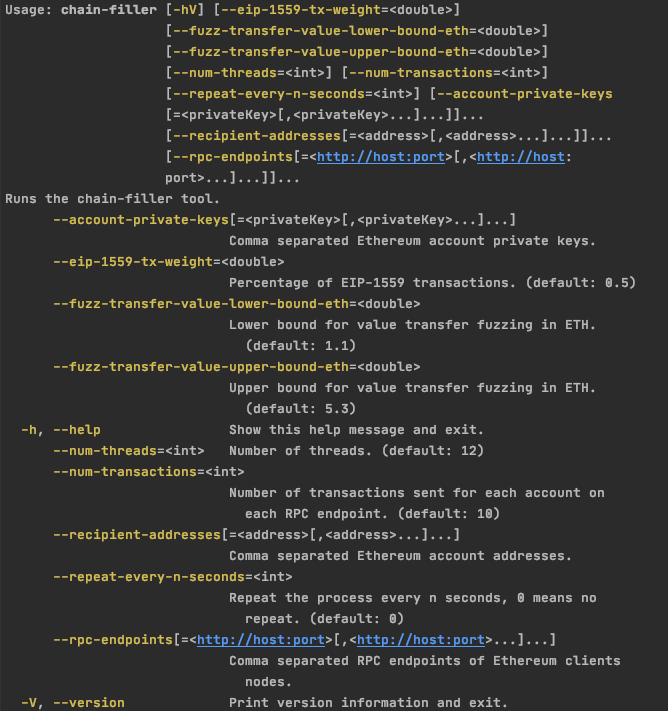
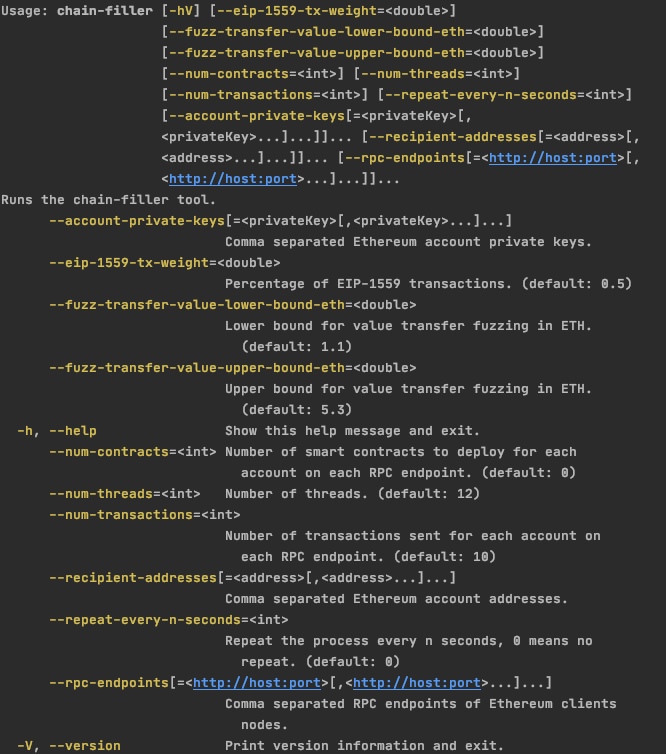
Add smart contract deployment feature

Changed region(s): [[0.0, 0.0, 0.961, 1.0], [0.03, 0.9592, 0.1802, 1.0], [0.03, 0.557, 0.0601, 0.6188]]

diff --git a/src/main/java/tech/pegasys/net/core/ChainFillerTask.java b/src/main/java/tech/pegasys/net/core/ChainFillerTask.java
@@ -23,6 +23,7 @@ public class ChainFillerTask implements Runnable {
   private final String accountPrivateKey;
   private final int numTransactionsLegacy;
   private final int numTransactionsEIP1559;
+  private final int numSmartContracts;
   private final Web3j web3;
   private AtomicLong nonce;
   private BigInteger initialGasPrice;
@@ -32,12 +33,14 @@ public class ChainFillerTask implements Runnable {
       final String rpcEndpoint,
       final String accountPrivateKey,
       final int numTransactionsLegacy,
-      final int numTransactionsEIP1559) {
+      final int numTransactionsEIP1559,
+      final int numSmartContracts) {
     this.chainFiller = chainFiller;
     this.rpcEndpoint = rpcEndpoint;
     this.accountPrivateKey = accountPrivateKey;
     this.numTransactionsLegacy = numTransactionsLegacy;
     this.numTransactionsEIP1559 = numTransactionsEIP1559;
+    this.numSmartContracts = numSmartContracts;
     this.taskId =
         String.format("[%s - %s]", rpcEndpoint, EthereumUtils.censorPrivateKey(accountPrivateKey));
     this.credentials =
@@ -64,6 +67,7 @@ public class ChainFillerTask implements Runnable {
     System.out.printf("%s task started\n", taskId);
     IntStream.range(0, numTransactionsLegacy).forEach(__ -> sendLegacyTransaction());
     IntStream.range(0, numTransactionsEIP1559).forEach(__ -> sendEIP1559Transaction());
+    IntStream.range(0, numSmartContracts).forEach(__ -> deploySmartContract());
     System.out.printf("%s task completed\n", taskId);
   }
 
@@ -94,6 +98,25 @@ public class ChainFillerTask implements Runnable {
     } catch (final Exception e) {
       System.err.printf("%s error sending eip1559 transaction: %s\n", taskId, e.getMessage());
       chainFiller.reporter().incEIP1559TransactionsError();
+    }
+  }
+
+  private void deploySmartContract() {
+    try {
+      final LegacyTransaction contractDeploymentTransaction =
+          chainFiller
+              .legacyTransactionCreator()
+              .create(
+                  BigInteger.valueOf(nonce.getAndIncrement()),
+                  initialGasPrice,
+                  chainFiller.contractRepository().random().code());
+      final byte[] signedMessage =
+          TransactionSigner.sign(contractDeploymentTransaction, credentials);
+      web3.ethSendRawTransaction(Numeric.toHexString(signedMessage)).send();
+      chainFiller.reporter().incTotalContractsDeployed();
+    } catch (final Exception e) {
+      System.err.printf("%s error deploying contract: %s\n", taskId, e.getMessage());
+      chainFiller.reporter().incTotalContractsDeploymentsError();
     }
   }
 }

diff --git a/src/main/java/tech/pegasys/net/core/ChainFillerService.java b/src/main/java/tech/pegasys/net/core/ChainFillerService.java
@@ -2,6 +2,7 @@ package tech.pegasys.net.core;
 
 import tech.pegasys.net.api.AccountRepository;
 import tech.pegasys.net.api.ChainFiller;
+import tech.pegasys.net.api.ContractRepository;
 import tech.pegasys.net.api.CredentialsRepository;
 import tech.pegasys.net.api.EIP1559TransactionCreator;
 import tech.pegasys.net.api.LegacyTransactionCreator;
@@ -18,6 +19,7 @@ public class ChainFillerService implements ChainFiller {
   private final ChainFillerConfiguration configuration;
   private final CredentialsRepository credentialsRepository;
   private final AccountRepository accountRepository;
+  private final ContractRepository contractRepository;
   private final LegacyTransactionCreator legacyTransactionCreator;
   private final EIP1559TransactionCreator eip1559TransactionCreator;
   private final Reporter reporter;
@@ -27,12 +29,14 @@ public class ChainFillerService implements ChainFiller {
       final ChainFillerConfiguration configuration,
       final CredentialsRepository credentialsRepository,
       final AccountRepository accountRepository,
+      final ContractRepository contractRepository,
       final LegacyTransactionCreator legacyTransactionCreator,
       final EIP1559TransactionCreator eip1559TransactionCreator,
       final Reporter reporter) {
     this.configuration = configuration;
     this.credentialsRepository = credentialsRepository;
     this.accountRepository = accountRepository;
+    this.contractRepository = contractRepository;
     this.legacyTransactionCreator = legacyTransactionCreator;
     this.eip1559TransactionCreator = eip1559TransactionCreator;
     this.reporter = reporter;
@@ -81,7 +85,8 @@ public class ChainFillerService implements ChainFiller {
                                       rpcEndpoint,
                                       accountPrivateKey,
                                       legacyTxs,
-                                      eip1559Txs))));
+                                      eip1559Txs,
+                                      configuration.numSmartContracts()))));
       executorService.shutdown();
       executorService.awaitTermination(1, TimeUnit.DAYS);
     } catch (final Exception e) {
@@ -97,6 +102,11 @@ public class ChainFillerService implements ChainFiller {
   @Override
   public CredentialsRepository credentialsRepository() {
     return credentialsRepository;
+  }
+
+  @Override
+  public ContractRepository contractRepository() {
+    return contractRepository;
   }
 
   @Override

diff --git a/src/main/java/tech/pegasys/net/core/report/ReporterService.java b/src/main/java/tech/pegasys/net/core/report/ReporterService.java
@@ -12,6 +12,8 @@ public class ReporterService implements Reporter {
   private final AtomicLong totalLegacyTransactionsError;
   private final AtomicLong totalEIP1559TransactionsSubmitted;
   private final AtomicLong totalEIP1559TransactionsError;
+  private final AtomicLong totalContractsDeployed;
+  private final AtomicLong totalContractsDeploymentsError;
 
   public ReporterService() {
     this.totalTransactionsSubmitted = new AtomicLong(0);
@@ -20,6 +22,8 @@ public class ReporterService implements Reporter {
     this.totalLegacyTransactionsError = new AtomicLong(0);
     this.totalEIP1559TransactionsError = new AtomicLong(0);
     this.totalTransactionsError = new AtomicLong(0);
+    this.totalContractsDeployed = new AtomicLong(0);
+    this.totalContractsDeploymentsError = new AtomicLong(0);
   }
 
   @Override
@@ -87,6 +91,26 @@ public class ReporterService implements Reporter {
   }
 
   @Override
+  public long totalContractsDeployed() {
+    return totalContractsDeployed.get();
+  }
+
+  @Override
+  public long totalContractsDeploymentsError() {
+    return totalContractsDeploymentsError.get();
+  }
+
+  @Override
+  public void incTotalContractsDeployed() {
+    totalContractsDeployed.incrementAndGet();
+  }
+
+  @Override
+  public void incTotalContractsDeploymentsError() {
+    totalContractsDeploymentsError.incrementAndGet();
+  }
+
+  @Override
   public String report() {
     return new JSONObject()
         .put("totalTransactionsSuccess", totalTransactionsSubmitted())
@@ -95,6 +119,8 @@ public class ReporterService implements Reporter {
         .put("legacyTransactionsError", totalLegacyTransactionsError())
         .put("eip1559TransactionsSuccess", totalEIP1559TransactionsSubmitted())
         .put("eip1559TransactionsError", totalEIP1559TransactionsError())
+        .put("contractDeploymentsSuccess", totalContractsDeployed())
+        .put("contractDeploymentsError", totalContractsDeploymentsError())
         .toString();
   }
 }

diff --git a/src/main/java/tech/pegasys/net/api/TransactionSigner.java b/src/main/java/tech/pegasys/net/api/TransactionSigner.java
@@ -11,17 +11,29 @@ import java.math.BigInteger;
 
 public class TransactionSigner {
   private static final BigInteger DEFAULT_GAS_LIMIT = BigInteger.valueOf(30000);
+  private static final BigInteger DEFAULT_CONTRACT_GAS_LIMIT = BigInteger.valueOf(8000000);
 
   public static byte[] sign(
       final LegacyTransaction legacyTransaction, final Credentials credentials) {
-    return sign(
-        RawTransaction.createEtherTransaction(
-            legacyTransaction.nonce(),
-            legacyTransaction.gasPrice(),
-            DEFAULT_GAS_LIMIT,
-            legacyTransaction.recipientAddress(),
-            Convert.toWei(legacyTransaction.value(), Convert.Unit.ETHER).toBigInteger()),
-        credentials);
+    final RawTransaction rawTransaction;
+    if (legacyTransaction.bytecode().isPresent()) {
+      rawTransaction =
+          RawTransaction.createContractTransaction(
+              legacyTransaction.nonce(),
+              legacyTransaction.gasPrice(),
+              DEFAULT_CONTRACT_GAS_LIMIT,
+              Convert.toWei(legacyTransaction.value(), Convert.Unit.ETHER).toBigInteger(),
+              legacyTransaction.bytecode().get());
+    } else {
+      rawTransaction =
+          RawTransaction.createEtherTransaction(
+              legacyTransaction.nonce(),
+              legacyTransaction.gasPrice(),
+              DEFAULT_GAS_LIMIT,
+              legacyTransaction.recipientAddress(),
+              Convert.toWei(legacyTransaction.value(), Convert.Unit.ETHER).toBigInteger());
+    }
+    return sign(rawTransaction, credentials);
   }
 
   public static byte[] sign(

diff --git a/src/main/java/tech/pegasys/net/core/dagger/ChainFillerModule.java b/src/main/java/tech/pegasys/net/core/dagger/ChainFillerModule.java
@@ -3,6 +3,7 @@ package tech.pegasys.net.core.dagger;
 import dagger.Module;
 import dagger.Provides;
 import tech.pegasys.net.api.AccountRepository;
+import tech.pegasys.net.api.ContractRepository;
 import tech.pegasys.net.api.CredentialsRepository;
 import tech.pegasys.net.api.EIP1559TransactionCreator;
 import tech.pegasys.net.api.LegacyTransactionCreator;
@@ -11,6 +12,7 @@ import tech.pegasys.net.api.TransactionFuzzer;
 import tech.pegasys.net.cli.Options;
 import tech.pegasys.net.config.ChainFillerConfiguration;
 import tech.pegasys.net.core.account.AccountRepositoryFactory;
+import tech.pegasys.net.core.contracts.ContractRepositoryFactory;
 import tech.pegasys.net.core.credentials.CredentialsRepositoryFactory;
 import tech.pegasys.net.core.report.ReporterService;
 import tech.pegasys.net.core.tx.EIP1559TransactionCreatorService;
@@ -40,6 +42,12 @@ public class ChainFillerModule {
   @Singleton
   public static AccountRepository accountRepository(final ChainFillerConfiguration configuration) {
     return AccountRepositoryFactory.inMemoryAccountRepository(configuration.recipientAddresses());
+  }
+
+  @Provides
+  @Singleton
+  public static ContractRepository contractRepository() {
+    return ContractRepositoryFactory.inMemoryContractRepository();
   }
 
   @Provides

diff --git a/src/main/java/tech/pegasys/net/core/tx/LegacyTransactionCreatorService.java b/src/main/java/tech/pegasys/net/core/tx/LegacyTransactionCreatorService.java
@@ -9,6 +9,7 @@ import tech.pegasys.net.api.model.LegacyTransaction;
 import tech.pegasys.net.config.ChainFillerConfiguration;
 
 import java.math.BigInteger;
+import java.util.Optional;
 
 public class LegacyTransactionCreatorService implements LegacyTransactionCreator {
   private final ChainFillerConfiguration configuration;
@@ -35,6 +36,22 @@ public class LegacyTransactionCreatorService implements LegacyTransactionCreator
             transactionFuzzer.value(
                 configuration.fuzzTransferValueLowerBoundEth(),
                 configuration.fuzzTransferValueUpperBoundEth()))
+        .bytecode(Optional.empty())
+        .build();
+  }
+
+  @Override
+  public LegacyTransaction create(
+      final BigInteger nonce, final BigInteger gasPrice, final String bytecode) {
+    return ImmutableLegacyTransaction.builder()
+        .nonce(nonce)
+        .gasPrice(gasPrice)
+        .recipientAddress("")
+        .value(
+            transactionFuzzer.value(
+                configuration.fuzzTransferValueLowerBoundEth(),
+                configuration.fuzzTransferValueUpperBoundEth()))
+        .bytecode(Optional.ofNullable(bytecode))
         .build();
   }
 }

diff --git a/src/main/java/tech/pegasys/net/core/contracts/ContractRepositoryFactory.java b/src/main/java/tech/pegasys/net/core/contracts/ContractRepositoryFactory.java
@@ -1,0 +1,25 @@
+package tech.pegasys.net.core.contracts;
+
+import tech.pegasys.net.api.ContractRepository;
+import tech.pegasys.net.api.model.Contract;
+import tech.pegasys.net.util.FileUtils;
+
+import java.util.Arrays;
+import java.util.List;
+import java.util.stream.Collectors;
+
+public class ContractRepositoryFactory {
+
+  private static final List<String> CONTRACT_FILES = Arrays.asList("binance-erc20-bytecode");
+
+  public static ContractRepository inMemoryContractRepository() {
+    return ImmutableInMemoryContractRepository.builder()
+        .addAllContracts(
+            CONTRACT_FILES.stream()
+                .map(ContractRepositoryFactory.class.getClassLoader()::getResource)
+                .map(FileUtils::readContent)
+                .map(Contract::of)
+                .collect(Collectors.toList()))
+        .build();
+  }
+}

diff --git a/src/main/java/tech/pegasys/net/cli/Options.java b/src/main/java/tech/pegasys/net/cli/Options.java
@@ -50,6 +50,14 @@ public class Options {
   private Integer numTransactions = 10;
 
   @Option(
+      names = {"--num-contracts"},
+      paramLabel = "<int>",
+      arity = "1",
+      description =
+          "Number of smart contracts to deploy for each account on each RPC endpoint. (default: ${DEFAULT-VALUE})")
+  private Integer numSmartContracts = 0;
+
+  @Option(
       names = {"--eip-1559-tx-weight"},
       paramLabel = "<double>",
       arity = "1",
@@ -89,6 +97,7 @@ public class Options {
         .addAllRecipientAddresses(recipientAddresses)
         .numThreads(numThreads)
         .numTransactions(numTransactions)
+        .numSmartContracts(numSmartContracts)
         .eip1559TxWeight(eip1559TxWeight)
         .repeatEveryNSeconds(repeatEveryNSeconds)
         .fuzzTransferValueLowerBoundEth(fuzzTransferValueLowerBoundEth)

diff --git a/src/main/java/tech/pegasys/net/core/contracts/InMemoryContractRepository.java b/src/main/java/tech/pegasys/net/core/contracts/InMemoryContractRepository.java
@@ -1,0 +1,29 @@
+package tech.pegasys.net.core.contracts;
+
+import org.immutables.value.Value;
+import tech.pegasys.net.api.ContractRepository;
+import tech.pegasys.net.api.model.Contract;
+
+import java.util.List;
+import java.util.concurrent.ThreadLocalRandom;
+import java.util.stream.Stream;
+
+@Value.Immutable
+public abstract class InMemoryContractRepository implements ContractRepository {
+
+  public abstract List<Contract> contracts();
+
+  @Override
+  public void add(final Contract contract) {
+    contracts().add(contract);
+  }
+
+  public Contract random() {
+    return contracts().get(ThreadLocalRandom.current().nextInt(contracts().size()));
+  }
+
+  @Override
+  public Stream<Contract> all() {
+    return contracts().stream();
+  }
+}

diff --git a/src/main/java/tech/pegasys/net/util/FileUtils.java b/src/main/java/tech/pegasys/net/util/FileUtils.java
@@ -1,0 +1,18 @@
+package tech.pegasys.net.util;
+
+import com.google.common.io.Resources;
+
+import java.io.IOException;
+import java.net.URL;
+import java.nio.charset.StandardCharsets;
+
+public class FileUtils {
+
+  public static String readContent(final URL url) {
+    try {
+      return Resources.toString(url, StandardCharsets.UTF_8);
+    } catch (final IOException e) {
+      throw new RuntimeException(e);
+    }
+  }
+}

diff --git a/src/main/java/tech/pegasys/net/api/ContractRepository.java b/src/main/java/tech/pegasys/net/api/ContractRepository.java
@@ -1,0 +1,19 @@
+package tech.pegasys.net.api;
+
+import tech.pegasys.net.api.model.Contract;
+import tech.pegasys.net.api.model.ImmutableContract;
+
+import java.util.stream.Stream;
+
+public interface ContractRepository {
+
+  void add(Contract contract);
+
+  default void add(String contractCode) {
+    add(ImmutableContract.builder().code(contractCode).build());
+  }
+
+  Contract random();
+
+  Stream<Contract> all();
+}

diff --git a/src/main/java/tech/pegasys/net/api/model/LegacyTransaction.java b/src/main/java/tech/pegasys/net/api/model/LegacyTransaction.java
@@ -3,9 +3,12 @@ package tech.pegasys.net.api.model;
 import org.immutables.value.Value;
 
 import java.math.BigInteger;
+import java.util.Optional;
 
 @Value.Immutable
 public abstract class LegacyTransaction extends Transaction {
 
   public abstract BigInteger gasPrice();
+
+  public abstract Optional<String> bytecode();
 }
